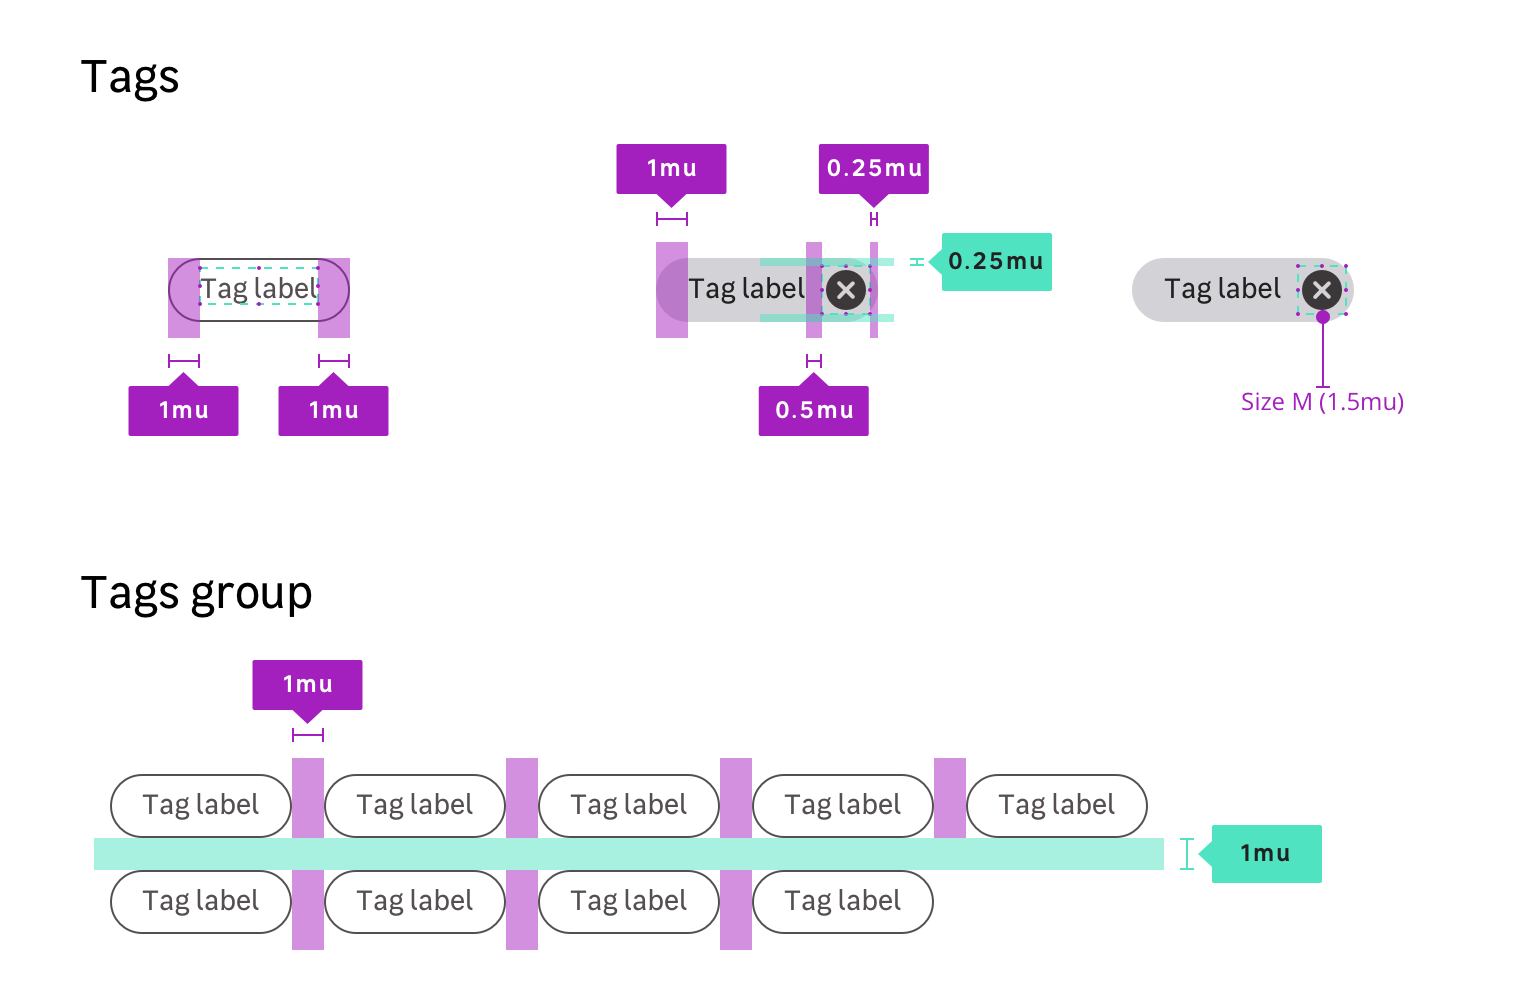
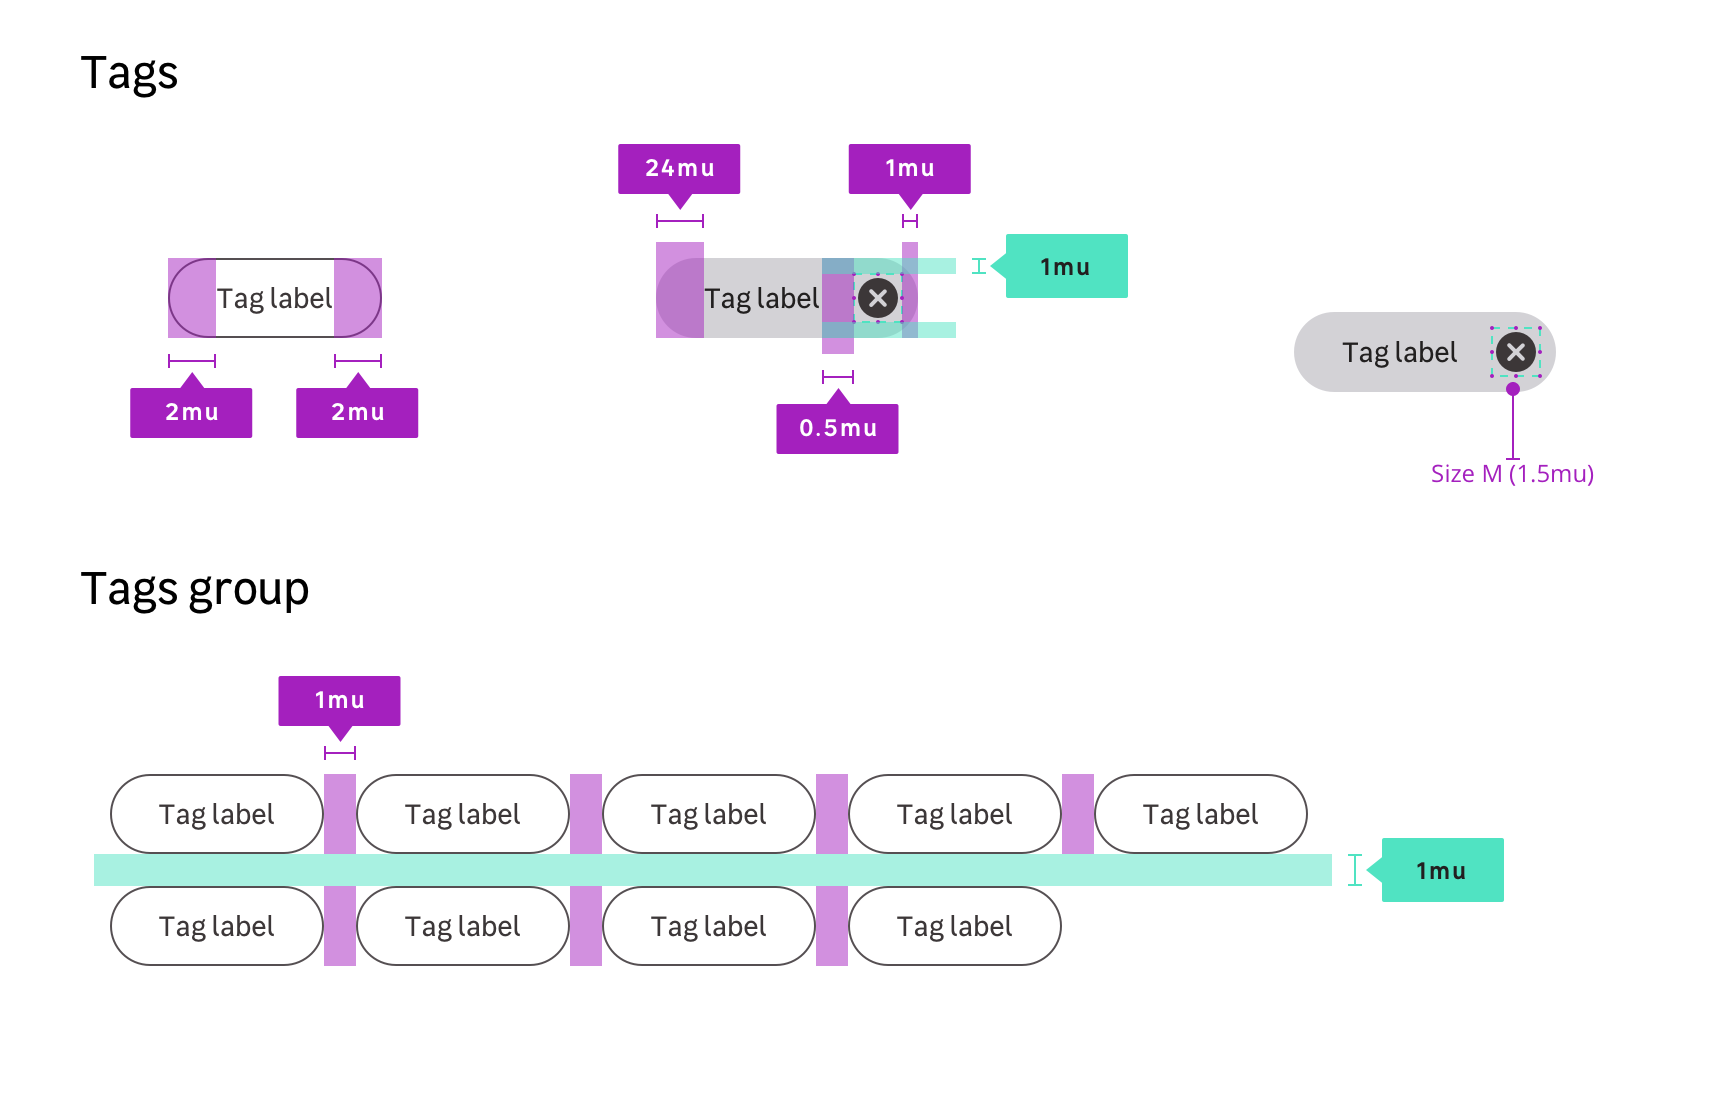
feat(pattern/tags): update tags size (m) (#656)

diff --git a/packages/styles/settings-tools/_s.tag.scss b/packages/styles/settings-tools/_s.tag.scss
@@ -7,13 +7,13 @@ $tag-sizes: (
     'padding': $mu025 $mu100,
     'font-size': '04',
     'line-height': 's',
-    'border-radius': 0.75rem,
+    'border-radius': $mu075,
   ),
   'm': (
-    'padding': $mu050 $mu100,
+    'padding': $mu075 $mu150,
     'font-size': '04',
     'line-height': 's',
-    'border-radius': 1rem,
+    'border-radius': $mu125,
   ),
 );
 
@@ -44,15 +44,15 @@ $tag-sizes: (
   }
 
   @if $size == 'm' {
-    width: $mu200;
-    height: $mu200;
+    width: $mu250;
+    height: $mu250;
     background-size: $mu150;
   }
 }
 
 @mixin set-tag-icon-B64($theme: 'light') {
   @if $theme == 'light' {
-    background-image: url(inline-icons('tag-delete-24', $color-grey-900));
+    background-image: url(inline-icons('tag-delete-24', $color-grey-800));
   }
 
   @if $theme == 'dark' {

diff --git a/packages/styles/components/_c.tag.scss b/packages/styles/components/_c.tag.scss
@@ -193,7 +193,7 @@
         padding: 0;
 
         .mc-tag-removable__label {
-          padding: $mu050 $mu025 $mu050 $mu100;
+          padding: $mu050 $mu100 $mu050 $mu125;
         }
 
         .mc-tag-removable__remove {
@@ -209,7 +209,7 @@
     }
 
     &__label {
-      padding: $mu050 $mu025 $mu050 $mu100;
+      padding: $mu075 $mu050 $mu075 $mu150;
       transform: translateY(-0.075em);
     }
 
